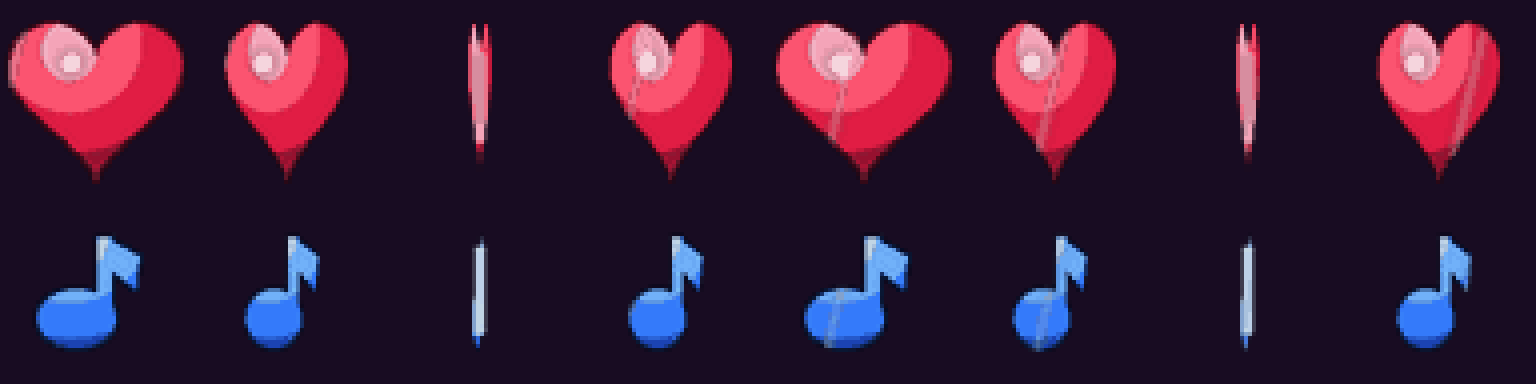
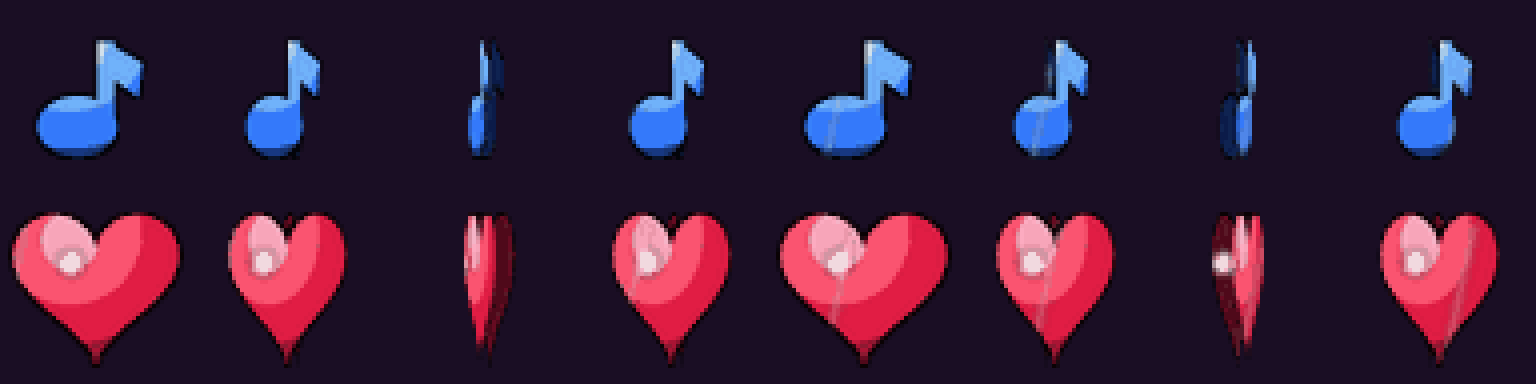
WIP: re-bake collectibles as 2.5D thick spin (heart + blue note, black borders)
Baked assets + updated baker only; NOT yet wired into index.html (awaiting
client validation of the hearts=lives / notes=collectibles mapping and the
'not thin when spinning' fix). Committed so the work isn't lost on the
ephemeral container. Live game is unchanged.

Claude-Session: https://claude.ai/code/session_01SRw78X23GN4HpvJVNRb8Gn

diff --git a/tools/bake_collectibles.py b/tools/bake_collectibles.py
@@ -1,136 +1,117 @@
 #!/usr/bin/env python3
 """
-bake_collectibles.py — high-fidelity ("64-bit") animated pixel collectibles.
+bake_collectibles.py — 2.5D animated pixel collectibles + HUD life heart.
 
-Renders a spinning, glaring HEART (DEVOTION life pickup) and MUSIC NOTE
-(Grace Note collectible) as 8-frame coin-flip sprite sheets. Each shape is
-drawn shaded at 3x, downsampled (LANCZOS) for that smooth HD-pixel look,
-given a dark outline + a moving specular glare, and flipped horizontally
-per frame so it reads as spinning like a coin. Cell 48x48, sheet 384x48.
+Client spec (validated):
+  BLUE MUSIC NOTE = the collectible grabbed all game long (Grace Note).
+  HEART           = lives. Shown as the top-left life counter, AND appears
+                    on the stage only as an earned extra-life pickup.
+  Everything pixel-art with a BLACK border; when they spin they must stay
+  THICK (2.5D) — an extruded side face so an edge-on frame is a chunky slab,
+  never a paper-thin sliver.
 
-Music note stays BLUE (the laptop session set RGB blue for contrast on the
-pastel rooms) but gains full shading + glare so it still pops.
-
-Outputs into assets_whimsy/: heart_spin.png, note_spin.png + a preview.
+Outputs (assets_whimsy/):
+  note_blue.png   8-frame spin sheet, 48px cells
+  heart_spin.png  8-frame spin sheet, 48px cells
+  heart_icon.png  single front heart (HUD life counter)
+  collectibles_preview.png
 """
 import math, os
 from PIL import Image, ImageDraw, ImageFilter
 
-CELL   = 48
-FRAMES = 8
-SS     = 3                    # supersample factor
-S      = CELL * SS
-OUT    = os.path.join(os.path.dirname(__file__), '..', 'assets_whimsy')
+CELL, FRAMES, SS = 48, 8, 3
+S = CELL * SS
+DEPTH = 0.30
+OUT = os.path.join(os.path.dirname(__file__), '..', 'assets_whimsy')
 
 def h(c): return tuple(int(c[i:i+2], 16) for i in (0, 2, 4))
+BLACK = (0, 0, 0)
 
-# ── palettes ──────────────────────────────────────────────────────────────
-HEART = dict(outline=h('3a0a18'), dark=h('9c1030'), mid=h('e11d44'),
-             bright=h('ff5470'), hi=h('ffa8bd'), glare=(255, 255, 255))
-NOTE  = dict(outline=h('081633'), dark=h('1c46b8'), mid=h('357bff'),
-             bright=h('6fb0ff'), hi=h('cfe6ff'), glare=(255, 255, 255))
+BLUE  = dict(dark=h('16367e'), mid=h('357bff'), bright=h('6fb0ff'), hi=h('cfe6ff'), side=h('0d1f52'))
+HEART = dict(dark=h('9c1030'), mid=h('e11d44'), bright=h('ff5470'), hi=h('ffa8bd'), side=h('5a0a1e'))
+
+def note_mask(dr):
+    cx, cy, rw, rh = S*0.40, S*0.66, S*0.205, S*0.155
+    dr.ellipse([cx-rw, cy-rh, cx+rw, cy+rh], fill=255)
+    sx = cx + rw*0.74
+    dr.rectangle([sx-S*0.04, S*0.22, sx+S*0.04, cy], fill=255)
+    dr.polygon([(sx, S*0.22), (sx+S*0.19, S*0.33), (sx+S*0.17, S*0.50), (sx+S*0.02, S*0.40)], fill=255)
 
 def heart_mask(dr):
     pts = []
     for d in range(0, 360, 3):
         t = math.radians(d)
-        x = 16 * math.sin(t) ** 3
-        y = 13 * math.cos(t) - 5 * math.cos(2*t) - 2 * math.cos(3*t) - math.cos(4*t)
-        pts.append((S/2 + x*(S*0.028), S*0.46 - y*(S*0.028)))
+        x = 16*math.sin(t)**3
+        y = 13*math.cos(t) - 5*math.cos(2*t) - 2*math.cos(3*t) - math.cos(4*t)
+        pts.append((S/2 + x*(S*0.027), S*0.44 - y*(S*0.027)))
     dr.polygon(pts, fill=255)
 
-def note_mask(dr):
-    # eighth note: tilted notehead ellipse + stem + flag
-    cx, cy, rw, rh = S*0.40, S*0.66, S*0.20, S*0.15
-    dr.ellipse([cx-rw, cy-rh, cx+rw, cy+rh], fill=255)      # notehead
-    sx = cx + rw*0.72
-    dr.rectangle([sx-S*0.035, S*0.24, sx+S*0.035, cy], fill=255)  # stem
-    dr.polygon([(sx, S*0.24), (sx+S*0.18, S*0.34),
-                (sx+S*0.16, S*0.50), (sx+S*0.03, S*0.40)], fill=255)  # flag
-
 def shaded(mask, pal):
-    """Fill a shape mask with top-left lit vertical-ish gradient + specular."""
-    img = Image.new('RGBA', (S, S), (0, 0, 0, 0))
-    px = img.load()
-    mm = mask.load()
-    # bounding rows for gradient normalization
+    img = Image.new('RGBA', (S, S), (0, 0, 0, 0)); px = img.load(); mm = mask.load()
     ys = [y for y in range(S) for x in range(S) if mm[x, y]]
-    if not ys:
-        return img
-    y0, y1 = min(ys), max(ys)
-    lx, ly = S*0.36, S*0.34          # light origin (upper-left)
-    maxd = S*0.85
+    if not ys: return img
+    y0, y1 = min(ys), max(ys); lx, ly = S*0.36, S*0.32; maxd = S*0.8
     for y in range(S):
         for x in range(S):
-            if not mm[x, y]:
-                continue
-            v = (y - y0) / max(1, (y1 - y0))          # 0 top .. 1 bottom
-            d = math.hypot(x-lx, y-ly) / maxd          # dist from light
-            lit = max(0.0, 1.0 - d*1.05) * (1.0 - v*0.55)
-            if lit > 0.72:   c = pal['hi']
-            elif lit > 0.48: c = pal['bright']
-            elif lit > 0.24: c = pal['mid']
-            else:            c = pal['dark']
+            if not mm[x, y]: continue
+            v = (y-y0)/max(1, y1-y0); d = math.hypot(x-lx, y-ly)/maxd
+            lit = max(0.0, 1.0-d*1.05)*(1.0-v*0.5)
+            c = pal['hi'] if lit > 0.72 else pal['bright'] if lit > 0.46 else pal['mid'] if lit > 0.22 else pal['dark']
             px[x, y] = c + (255,)
     return img
 
-def outlined(shape, pal):
+def black_outline(shape, w=None):
     a = shape.split()[3]
-    dil = a.filter(ImageFilter.MaxFilter(2*SS+1))
+    dil = a.filter(ImageFilter.MaxFilter((w or 2*SS+1)))
     out = Image.new('RGBA', (S, S), (0, 0, 0, 0))
-    ol = Image.new('RGBA', (S, S), pal['outline'] + (255,))
-    out.paste(ol, (0, 0), dil)
+    out.paste(Image.new('RGBA', (S, S), BLACK + (255,)), (0, 0), dil)
     out.paste(shape, (0, 0), shape)
     return out
 
-def glare(img, pal, phase):
-    """Persistent specular dot + a diagonal shine streak that sweeps."""
+def glare(img, phase):
     a = img.split()[3]
-    g = Image.new('RGBA', (S, S), (0, 0, 0, 0))
-    dr = ImageDraw.Draw(g)
-    # fixed specular highlight (upper-left)
-    dr.ellipse([S*0.30, S*0.26, S*0.44, S*0.40], fill=pal['glare'] + (150,))
-    dr.ellipse([S*0.34, S*0.30, S*0.40, S*0.36], fill=pal['glare'] + (230,))
-    # sweeping streak
-    sx = int(S*0.12 + phase*S*0.7)
-    dr.line([(sx, S*0.15), (sx-S*0.18, S*0.9)], fill=pal['glare'] + (120,), width=int(S*0.05))
-    g = g.filter(ImageFilter.GaussianBlur(SS*1.1))
+    g = Image.new('RGBA', (S, S), (0, 0, 0, 0)); dr = ImageDraw.Draw(g)
+    dr.ellipse([S*0.30, S*0.30, S*0.44, S*0.44], fill=(255, 255, 255, 210))
+    sx = int(S*0.14 + phase*S*0.62)
+    dr.line([(sx, S*0.16), (sx-S*0.16, S*0.9)], fill=(255, 255, 255, 110), width=int(S*0.045))
+    g = g.filter(ImageFilter.GaussianBlur(SS))
     g.putalpha(Image.composite(g.split()[3], Image.new('L', (S, S), 0), a))
     return Image.alpha_composite(img, g)
 
-def build(mask_fn, pal):
-    dr_img = Image.new('L', (S, S), 0)
-    mask_fn(ImageDraw.Draw(dr_img))
-    front = outlined(shaded(dr_img, pal), pal)
-    sheet = Image.new('RGBA', (CELL*FRAMES, CELL), (0, 0, 0, 0))
-    for i in range(FRAMES):
-        ang = i / FRAMES * 2*math.pi
-        wf = max(0.14, abs(math.cos(ang)))
-        w = max(2, int(S*wf))
+def build(mask_fn, pal, frames=FRAMES):
+    m = Image.new('L', (S, S), 0); mask_fn(ImageDraw.Draw(m))
+    front = black_outline(shaded(m, pal))
+    sil = Image.new('RGBA', (S, S), (0, 0, 0, 0)); sil.paste(pal['side'] + (255,), (0, 0), m)
+    side = black_outline(sil)
+    sheet = Image.new('RGBA', (CELL*frames, CELL), (0, 0, 0, 0))
+    for i in range(frames):
+        ang = i/FRAMES*2*math.pi; c, s = math.cos(ang), math.sin(ang)
+        # thick turntable: face never narrower than half-width, chunky extruded
+        # side shows on the turn -> reads 3D, never a thin sliver
+        fw = int(S*(0.55 + 0.45*abs(c))); dw = int(S*DEPTH*abs(s))
         fr = Image.new('RGBA', (S, S), (0, 0, 0, 0))
-        sc = front.resize((w, S), Image.LANCZOS)
-        fr.paste(sc, ((S-w)//2, 0), sc)
-        if wf < 0.34:   # thin edge sliver reads as the spinning side
-            ed = ImageDraw.Draw(fr)
-            ed.rectangle([S/2-SS*1.5, S*0.28, S/2+SS*1.5, S*0.74],
-                         fill=pal['hi'] + (235,))
-        fr = glare(fr, pal, i/FRAMES)
-        cell = fr.resize((CELL, CELL), Image.LANCZOS)
-        sheet.paste(cell, (i*CELL, 0), cell)
+        if dw > 2:
+            sc = side.resize((dw, S), Image.LANCZOS)
+            fr.paste(sc, ((S-dw)//2 + (int(S*0.06) if s > 0 else -int(S*0.06)), 0), sc)
+        fc = front.resize((fw, S), Image.LANCZOS)
+        fr.paste(fc, ((S-fw)//2, 0), fc)
+        fr = glare(fr, i/FRAMES)
+        sheet.paste(fr.resize((CELL, CELL), Image.LANCZOS), (i*CELL, 0), fr.resize((CELL, CELL), Image.LANCZOS))
     return sheet.quantize(colors=48, method=Image.FASTOCTREE).convert('RGBA')
 
 def main():
     os.makedirs(OUT, exist_ok=True)
+    note  = build(note_mask,  BLUE)
     heart = build(heart_mask, HEART)
-    note  = build(note_mask,  NOTE)
+    icon  = build(heart_mask, HEART, frames=1)          # front-only HUD heart
+    note.save(os.path.join(OUT, 'note_blue.png'))
     heart.save(os.path.join(OUT, 'heart_spin.png'))
-    note.save(os.path.join(OUT, 'note_spin.png'))
-    # preview contact sheet (4x, dark bg)
-    prev = Image.new('RGBA', (CELL*FRAMES*4, CELL*2*4), (24, 12, 34, 255))
-    prev.alpha_composite(heart.resize((CELL*FRAMES*4, CELL*4), Image.NEAREST), (0, 0))
-    prev.alpha_composite(note.resize((CELL*FRAMES*4, CELL*4), Image.NEAREST), (0, CELL*4))
+    icon.save(os.path.join(OUT, 'heart_icon.png'))
+    prev = Image.new('RGBA', (CELL*FRAMES*4, CELL*2*4), (26, 14, 36, 255))
+    prev.alpha_composite(note.resize((CELL*FRAMES*4, CELL*4), Image.NEAREST), (0, 0))
+    prev.alpha_composite(heart.resize((CELL*FRAMES*4, CELL*4), Image.NEAREST), (0, CELL*4))
     prev.save(os.path.join(OUT, 'collectibles_preview.png'))
-    print('baked heart_spin.png, note_spin.png (+ preview)')
+    print('baked note_blue.png, heart_spin.png, heart_icon.png (+ preview)')
 
 if __name__ == '__main__':
     main()
